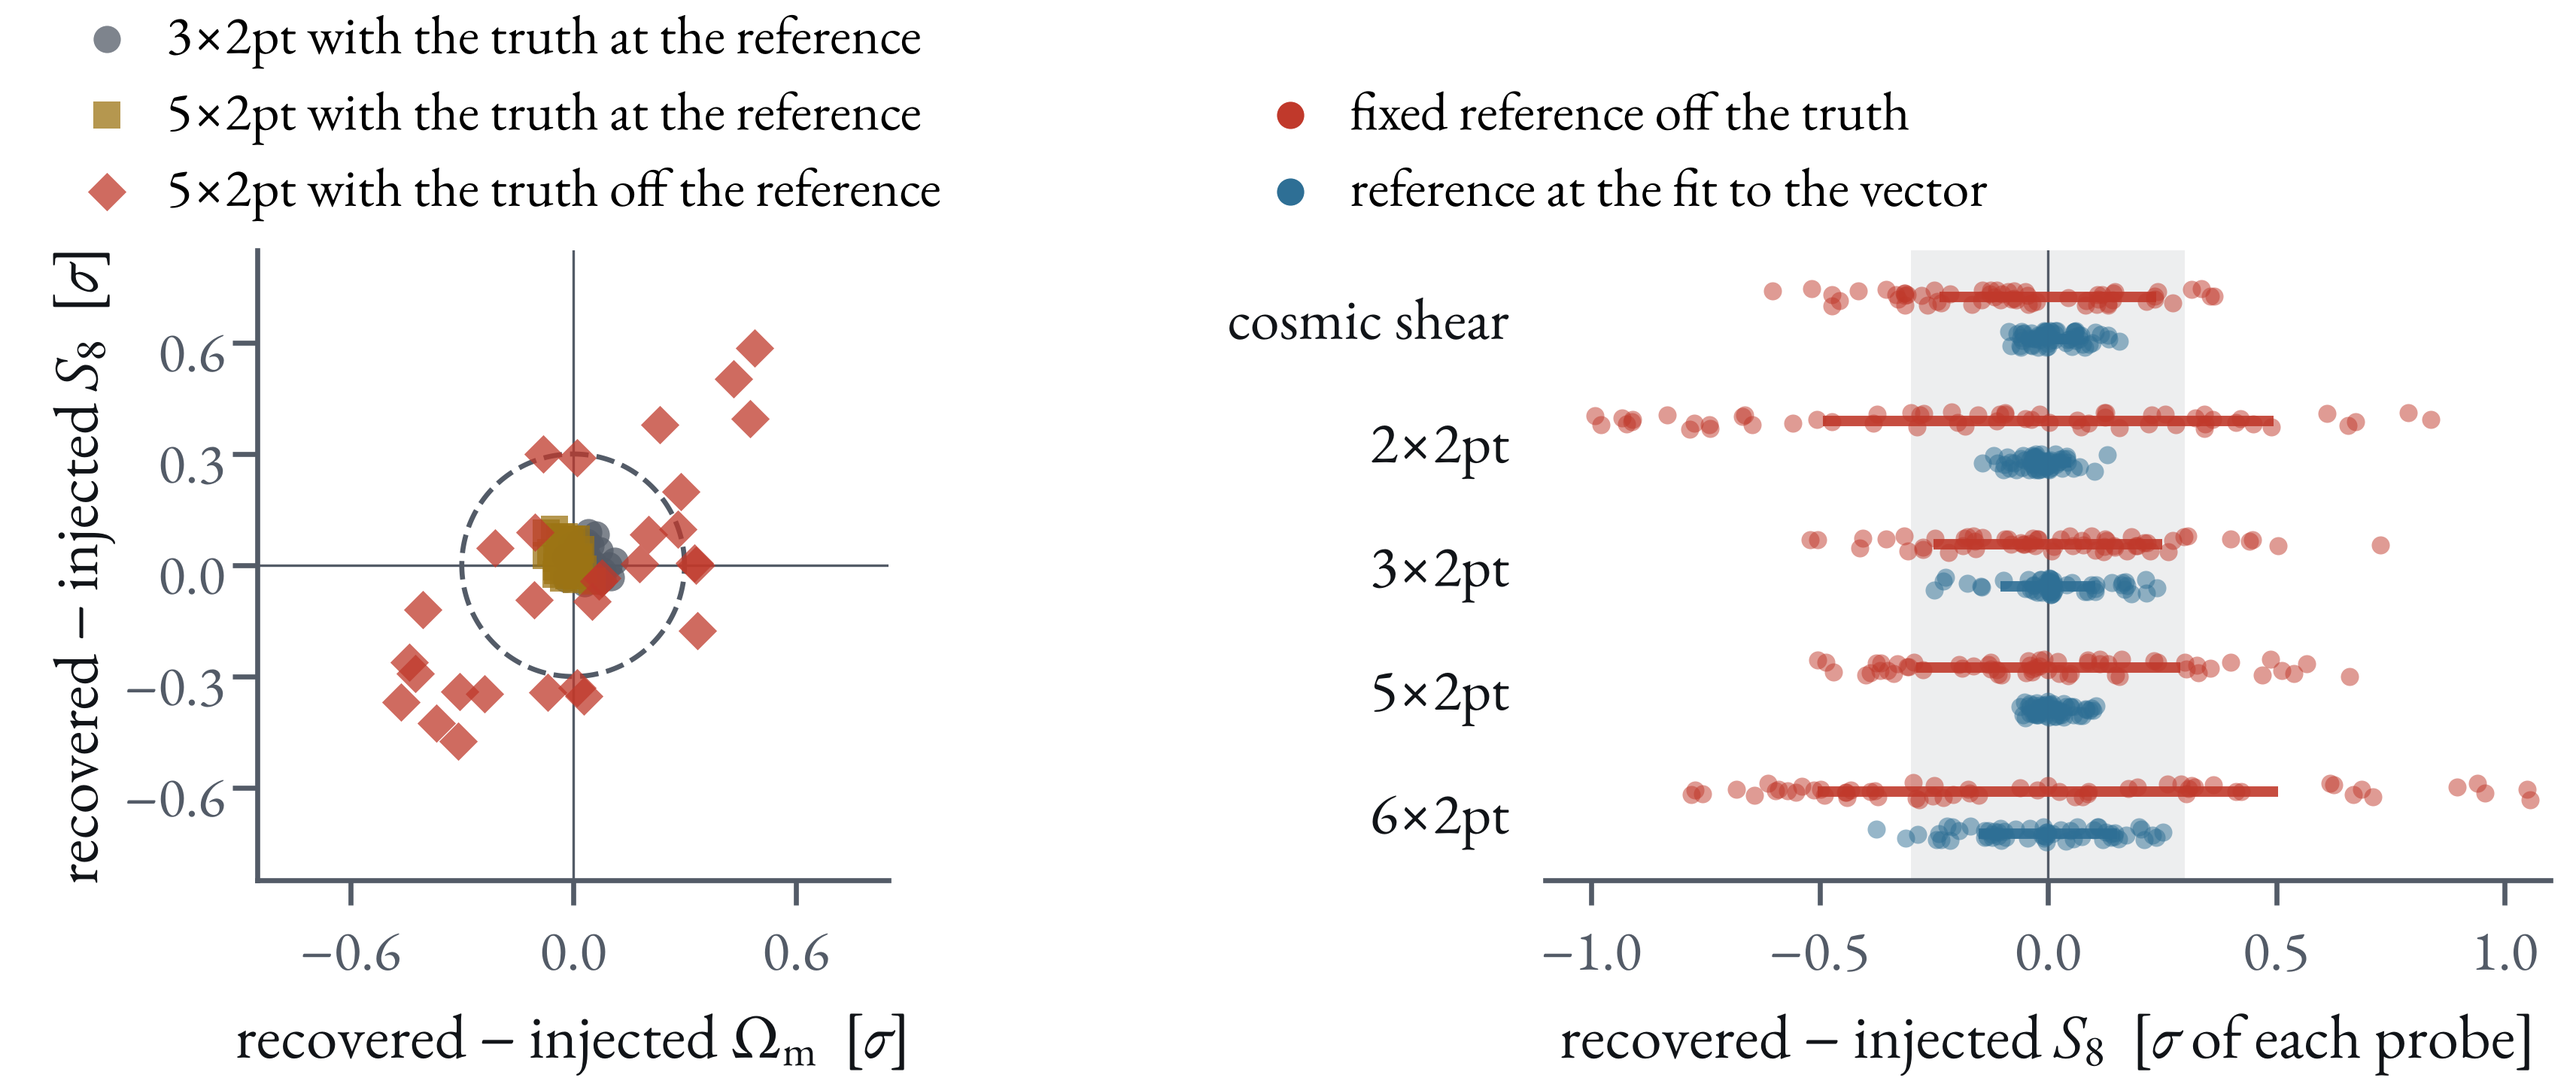
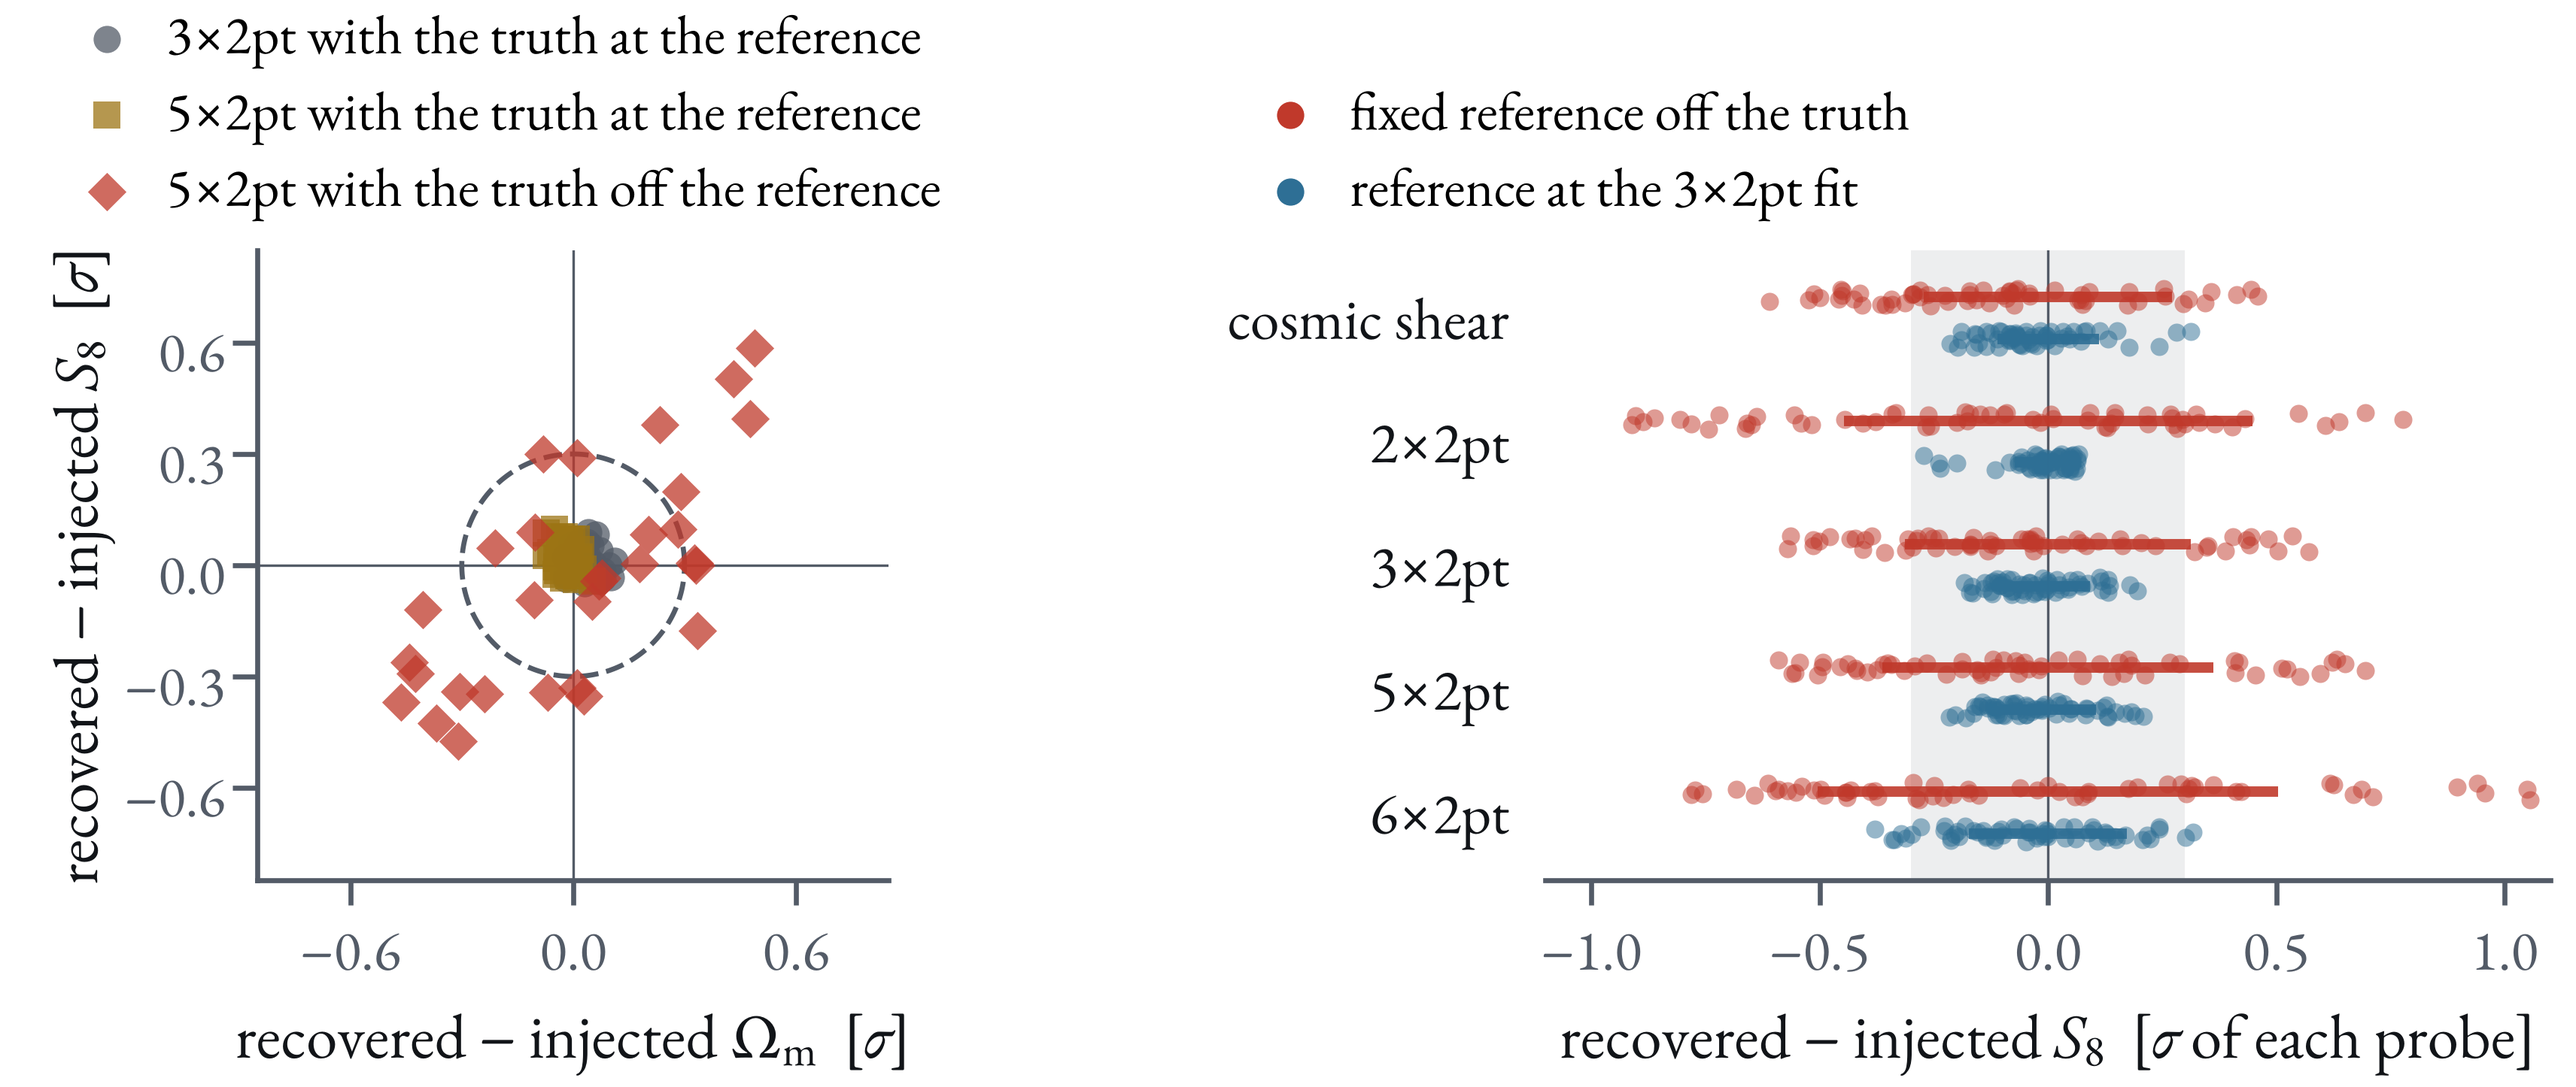
ICE blind-rehearsal: one shared reference and shared noise for every probe; J draws from the 5x2pt covariance

diff --git a/2611_ICE_Barcelona/slides/blind-rehearsal.html b/2611_ICE_Barcelona/slides/blind-rehearsal.html
@@ -3,30 +3,30 @@
   <figure>
     <img src="images/ice_blind_recovery_1.png" alt="Recovered minus injected S8 against Omega_m for 30 blinding shifts in the 3x2pt and 5x2pt, with the truth at the blind's reference: every chain within 0.12 sigma of zero">
     <img class="fragment" src="images/ice_blind_recovery_2.png" alt="The same 30 shifts with the truth off the blind's reference: misses of up to 0.6 sigma, two thirds of them outside the 0.3 sigma circle">
-    <img class="fragment" src="images/ice_blind_recovery_3.png" alt="Second panel: recovered minus injected S8 for cosmic shear, 2x2pt, 3x2pt, 5x2pt and 6x2pt, with one fixed reference and with the reference at the fit to the vector: the first misses by up to 1 sigma, the second stays within 0.4">
-    <span class="source">DR1 South · 30 shifts drawn flat in $(A_s, \omega_c, h)$ · left: chains · right: best fits to two noisy vectors</span>
+    <img class="fragment" src="images/ice_blind_recovery_3.png" alt="Second panel: recovered minus injected S8 for cosmic shear, 2x2pt, 3x2pt, 5x2pt and 6x2pt, with one fixed reference and with the reference at the 3x2pt fit: the first misses by up to 1 sigma, the second stays within 0.4">
+    <span class="source">DR1 South · 30 shifts drawn flat in $(A_s, \omega_c, h)$ · left: chains · right: best fits with two noise draws</span>
   </figure>
   <aside class="notes">
     <ul class="skim">
       <li><strong>The test</strong> — Martin Crocce's of 24 November: add 30 shifts to a noiseless Euclid DR1 South vector, run the full chain on each (38 parameters, nuisances sampled, as he asked on 20 November), and plot recovered minus injected $(\Omega_\mathrm{m}, S_8)$. The dashed circle is $0.3\sigma$, the pass level registered for the CMBX blind. 90 shifted chains, 30 per set of points.</li>
       <li><strong>First step</strong> — the truth sits at the blind's reference, as in the group's plan. All 60 chains (3×2pt, and 5×2pt with SPT-3G Main and Summer) are within $0.12\sigma$, and $\sigma(S_8)$ keeps its size within 9 %. This case passes by construction: $T(\mathrm{ref}) + T(\mathrm{shifted}) - T(\mathrm{ref})$ is exactly $T(\mathrm{shifted})$, so the chain is the forecast at another cosmology. It tests projection effects and numerics, not whether the added shift is the right one.</li>
-      <li><strong>Second step</strong> — the truth sits off the reference and the blind does not know it: galaxy biases 10 % higher, $A_\mathrm{IA}$ 0.55 for 0.85, $\log T_\mathrm{AGN}$ 7.9 for 7.7, and $S_8$ 0.777 for 0.839. The 5×2pt misses by a scatter of $0.29\sigma$ in $S_8$ and in $\Omega_\mathrm{m}$, up to $0.6\sigma$; 10 of 30 stay inside the circle. The mean miss is zero ($-0.04$ and $+0.01\sigma$), so an ensemble average hides it.</li>
-      <li><strong>Third step</strong> — the same 30 shifts, best fits instead of chains, on two noisy vectors, for five probe sets. With one fixed reference (red) the $S_8$ miss scatters by 0.24, 0.49, 0.25, 0.29 and $0.50\sigma$ for cosmic shear, 2×2pt, 3×2pt, 5×2pt and 6×2pt. With the reference set to the best fit of the vector being blinded (blue) it is 0.06, 0.05, 0.10, 0.04 and $0.15\sigma$, and at most $0.4\sigma$.</li>
+      <li><strong>Second step</strong> — the truth sits off the reference and the blind does not know it: galaxy biases 10 % higher, $A_\mathrm{IA}$ 0.55 for 0.85, $\log T_\mathrm{AGN}$ 7.9 for 7.7, and $S_8$ 0.777 for 0.839. The 5×2pt misses by a scatter of $0.29\sigma$ in $S_8$ and in $\Omega_\mathrm{m}$, up to $0.6\sigma$ in either; 10 of 30 stay inside the circle. The mean miss is zero ($-0.04$ and $+0.01\sigma$), so an ensemble average hides it.</li>
+      <li><strong>Third step</strong> — the same 30 parameter shifts, best fits instead of chains, with noise (two realizations of the full 6×2pt vector, the same noise in every probe set). With one fixed reference off the truth (red) the $S_8$ miss scatters by 0.27, 0.45, 0.31, 0.36 and $0.50\sigma$ for cosmic shear, 2×2pt, 3×2pt, 5×2pt and 6×2pt. With the reference at the best fit of the unblinded 3×2pt vector, the same one for every probe set (blue), it is 0.11, 0.07, 0.09, 0.11 and $0.17\sigma$, and at most $0.38\sigma$. Counted inside the joint $0.3\sigma$ circle in $(\Omega_\mathrm{m}, S_8)$, of 60: 25, 8, 10, 11 and 13 against 59, 46, 52, 52 and 38.</li>
     </ul>
     <details><summary>One shift for every probe</summary>
-    <p>Crocce's plan applies the same shift to the 3×2pt, 2×2pt and 1×2pt. With a fixed reference off the truth, each probe moves by a slightly different amount, so one blind separates cosmic shear from 2×2pt: the false $S_8$ difference has a scatter of $0.4\sigma$ over the 30 shifts and reaches $0.8\sigma$. Referenced to the best fit it stays below $0.2\sigma$. A blinded internal-consistency test would see the first as a mild tension that is not in the data.</p>
+    <p>Crocce's plan applies the same shift to the 3×2pt, 2×2pt and 1×2pt. With a fixed reference off the truth each probe moves by a slightly different amount, so one blind changes the $S_8$ difference between cosmic shear and 2×2pt by a scatter of 0.3 to $0.4\sigma$ over the 30 shifts, up to $0.7\sigma$. A blinded internal-consistency test would see that as a mild tension that is not in the data. With the shared 3×2pt reference it is 0.04 and $0.15\sigma$ for the two noise draws, up to $0.4\sigma$.</p>
     </details>
     <details><summary>Where the miss comes from</summary>
-    <p>The miss is the product of the shift and the offset of the reference, so it is linear in both: at half the offset the 3×2pt $S_8$ miss halves ($0.11\sigma$ against $0.24\sigma$). By source, for the 3×2pt: cosmology alone $0.19\sigma$, galaxy bias alone $0.08\sigma$ ($0.18\sigma$ in $\Omega_\mathrm{m}$), intrinsic alignments $0.02\sigma$, baryons $0.02\sigma$. The offsets chosen are large on purpose: $S_8$ is at the level where weak lensing measures it low.</p>
+    <p>The miss is the product of the shift and the offset of the reference, so it is linear in both: at half the offset the 3×2pt $S_8$ miss halves ($0.11\sigma$ against $0.24\sigma$). By source, for the 3×2pt: cosmology alone $0.19\sigma$, galaxy bias alone $0.08\sigma$ ($0.18\sigma$ in $\Omega_\mathrm{m}$), intrinsic alignments $0.02\sigma$, baryons $0.02\sigma$. The offsets chosen are large on purpose: the truth's $S_8$ is $5.9\sigma$ from the reference's, at the level where weak lensing measures it low.</p>
     </details>
     <details><summary>The alternative of scaling the vector</summary>
-    <p>Multiplying by $T(\mathrm{shifted})/T(\mathrm{ref})$ recovers to $0.3\sigma$ on a noiseless vector, but Muir et al. (2020, arXiv:1911.05929, footnote 1) warn that it rescales the noise as well as the signal, and it does: the best-fit $\chi^2$ changes by a factor 0.82 to 1.21 for cosmic shear and 0.84 to 1.18 for the 5×2pt, and for cosmic shear it follows the hidden $S_8$ shift with a correlation of 0.98. A blind that shows the shift in the goodness of fit is not usable. The added shift, with either reference, leaves $\chi^2$ unchanged within 1 %.</p>
+    <p>Multiplying by $T(\mathrm{shifted})/T(\mathrm{ref})$ recovers $S_8$ to $0.3\sigma$ on a noiseless vector ($\Omega_\mathrm{m}$ to $0.4\sigma$), but with noise the 3×2pt $S_8$ misses by up to $0.7\sigma$. Muir et al. (2020, arXiv:1911.05929, footnote 1) warn that scaling rescales the noise as well as the signal, and it does: the best-fit $\chi^2$ changes by a factor 0.82 to 1.21 for cosmic shear and 0.84 to 1.18 for the 5×2pt, and for cosmic shear it follows the hidden $S_8$ shift with a correlation of 0.98. A blind that shows the shift in the goodness of fit is not usable. The added shift, with either reference, leaves $\chi^2$ unchanged within 1 %.</p>
     </details>
     <details><summary>What the reference at the fit would need</summary>
-    <p>The blinding pipeline would fit the unblinded vector and keep the result sealed with the shift. The full best fit takes about 3 minutes on one node with all 38 parameters, so it is cheap; the cost is that the pipeline then holds an unblinded fit. It has not been tested on mocks or applied to any blind. $\Omega_\mathrm{m}$ still moves by 0.1 to $0.3\sigma$ with noise, up to $0.65\sigma$ for the 2×2pt, where the best fit is a poorer summary than a posterior mean.</p>
+    <p>The blinding pipeline would fit the unblinded 3×2pt vector, use that fit as the reference and keep it sealed with the shift. A full best fit takes minutes on one node with all 38 parameters, so it is cheap; the cost is that the pipeline then holds an unblinded fit. This is a best-fit test with the right model on two noise draws: no model error, no chains, no mocks, and it is applied to no blind. The same shift in $(A_s, \omega_c, h)$ from a different reference is a different shift in $S_8$, up to $5.9\sigma$ for the 6×2pt here against $3.7\sigma$ from the fixed one, so the blue points carry the larger shifts. $\Omega_\mathrm{m}$ still misses by 0.12 to $0.25\sigma$ of scatter, up to $0.65\sigma$ for the 2×2pt.</p>
     </details>
     <details><summary>Best fits against chains</summary>
-    <p>The recovery test at the posterior's maximum, all 30 shifts batched, takes 3 minutes where a chain takes 10 to 25 minutes for each shift. On the 30 off-reference 5×2pt chains the two agree to $0.05\sigma$ in $S_8$ and $0.06\sigma$ in $\Omega_\mathrm{m}$ (correlation 0.99). Three shifts each rerun as cosmic-shear and 2×2pt chains agree with their best fits to $0.12\sigma$ in $S_8$ and $0.2\sigma$ in $\Omega_\mathrm{m}$.</p>
+    <p>The recovery test at the posterior's maximum, all 30 shifts batched, takes 3 minutes where a chain takes 10 to 25 minutes for each shift. On the 30 off-reference noiseless 5×2pt chains the two agree to $0.05\sigma$ in $S_8$ and $0.06\sigma$ in $\Omega_\mathrm{m}$ (correlation 0.99, worst case 0.13 and $0.15\sigma$). Three shifts each rerun as cosmic-shear and 2×2pt chains agree with their best fits to $0.12\sigma$ in $S_8$ and $0.2\sigma$ in $\Omega_\mathrm{m}$.</p>
     </details>
     <details><summary>Setup</summary>
     <p>The DR1 forecast's vector, covariance, priors and scale cuts (the DR1 forecast slide), with the 15 November CLOE through its JAX adapter, $n_s$ held in the shift. Widths on a shifted vector are not the unshifted widths: $\sigma(\Omega_\mathrm{m})$ changes by a factor 0.75 to 1.34 with where the shift lands. An earlier rehearsal on one GLASS mock, with two throwaway blinds and eight parameters, recovered its shifts within $0.75\sigma$ (the Napoli 2610 deck). The real TR1 blind was never opened.</p>

diff --git a/2611_ICE_Barcelona/slides/blind-draws.html b/2611_ICE_Barcelona/slides/blind-draws.html
@@ -17,7 +17,7 @@
       <li><strong>Each dot</strong> — one draw of a Muir-style blinding shift, placed at the size of the $S_8$ shift it means, in units of the DR1 South 3×2pt forecast $\sigma(S_8)=0.0105$. The black bar is the median, the dashed line $3\sigma$.</li>
       <li><strong>$(\omega_c, A_s)$ from the posterior</strong> — the pair drawn from its two-dimensional marginal with $h$ and $n_s$ held. Casper Vedder showed on 22 November that this moves $S_8$ by about $7\sigma$ (on COSEBIs); here the median is $3.0\sigma$, 13 % of the draws pass $7\sigma$ and the largest of 400 is $14.8\sigma$. The marginal is as wide as it is because $h$ and $n_s$ are free; with them held, the draw runs far off the $S_8$ degeneracy.</li>
       <li><strong>Flat in $(A_s, \omega_c, h)$</strong> — Martin Crocce's proposal of 24 November: a flat box $\pm3\sigma$ of the 3×2pt posterior wide, then a cut in $(S_8, \Omega_\mathrm{m})$. The raw box has a median of $12\sigma$; keeping draws within the $3\sigma$ ellipse of the 3×2pt leaves 311 of 4000, with a median of $1.3\sigma$ and none above $3\sigma$.</li>
-      <li><strong>Set by $(S_8, \Omega_\mathrm{m})$</strong> — the CMBX draw: the $(\omega_c, A_s)$ covariance is $J^{-1} C J^{-T}$, where $C$ is the 5×2pt posterior's $(S_8, \Omega_\mathrm{m})$ covariance and $J$ the derivative of $(S_8, \Omega_\mathrm{m})$ with respect to $(\omega_c, A_s)$ at fixed $h$ and $n_s$. Median $0.8\sigma$, 99 % within $3\sigma$.</li>
+      <li><strong>Set by $(S_8, \Omega_\mathrm{m})$</strong> — the CMBX draw: the $(\omega_c, A_s)$ covariance is $J^{-1} C J^{-T}$, where $C$ is the 5×2pt posterior's $(S_8, \Omega_\mathrm{m})$ covariance and $J$ the derivative of $(S_8, \Omega_\mathrm{m})$ with respect to $(\omega_c, A_s)$ at fixed $h$ and $n_s$. Median $0.75\sigma$, 98 % within $3\sigma$.</li>
     </ul>
     <details><summary>What this means for the draw</summary>
     <p>Crocce's recipe gives shifts of the wanted size once the $(S_8, \Omega_\mathrm{m})$ cut is applied; the cut does nearly all the work, since 92 % of the box is thrown away. The $J$ recipe needs no rejection and gives a size that is chosen in advance. The 30 draws on the next slide are the first 30 kept from the flat box.</p>

diff --git a/2611_ICE_Barcelona/make_blind_ensemble.py b/2611_ICE_Barcelona/make_blind_ensemble.py
@@ -4,7 +4,7 @@ draws.npz: shift draws in (logA, omch2, h) and what each means in (S8, Omega_m),
 slim.npz, ens.npz: 30 shifts drawn flat in (A_s, omch2, h), kept within 3 sigma of the 3x2pt (S8, Omega_m); for each a
 chain on the shifted noiseless DR1 vector. Recovery = posterior mean(shifted) - mean(unshifted) - injected, in units of
 the unshifted chain's sigma, for (Omega_m, S8). map/*.npz (mapfit.py): the same at the posterior's maximum, for five probe
-sets with noise, with the blind's reference fixed or at the best fit of the vector. Writes images/ice_blind_draws.png, images/ice_blind_recovery_<k>.png
+sets with noise, with the blind's reference fixed or at the best fit of the 3x2pt. Writes images/ice_blind_draws.png, images/ice_blind_recovery_<k>.png
 and blind_ensemble.json.
 
 Run: uv run --with numpy --with scipy --with matplotlib --with fonttools --with brotli \
@@ -127,7 +127,7 @@ def fig_recovery(z, ens, M, outdir):
             for j, (p, label) in enumerate(PROBES):
                 y = len(PROBES) - 1 - j
                 for mode, c, off in (('add', ADD, .17), ('refit', REFIT, -.17)):
-                    v = np.concatenate([M[f'stress_{p}_{mode}_n{n}'][0][:, 0] for n in (1, 2)])
+                    v = np.concatenate([M[f'stress_{p}_{mode}_v{n}'][0][:, 0] for n in (1, 2)])
                     bx.scatter(v, y + off + rng.uniform(-.07, .07, len(v)), s=75, color=c, alpha=.5, lw=0, zorder=3)
                     bx.plot([-v.std(), v.std()], [y + off] * 2, color=c, lw=5, alpha=.9, zorder=2, solid_capstyle='butt')
                 bx.text(-1.18, y, label, ha='right', va='center', fontsize=28, color=style.INK)
@@ -136,7 +136,7 @@ def fig_recovery(z, ens, M, outdir):
             bx.set_xlim(-1.1, 1.1); bx.set_ylim(-.55, len(PROBES) - .45)
             bx.set_xticks([-1, -.5, 0, .5, 1]); bx.set_yticks([]); bx.spines['left'].set_visible(False)
             bx.set_xlabel(r'recovered $-$ injected $S_8$  [$\sigma$ of each probe]')
-            for txt, c in (('fixed reference off the truth', ADD), ('reference at the fit to the vector', REFIT)):
+            for txt, c in (('fixed reference off the truth', ADD), ('reference at the 3×2pt fit', REFIT)):
                 bx.scatter([], [], s=170, color=c, label=txt, lw=0)
             bx.legend(loc='lower left', bbox_to_anchor=(-.33, 1.01), frameon=False, fontsize=26, handletextpad=.1,
                       borderaxespad=0, labelspacing=.1)
